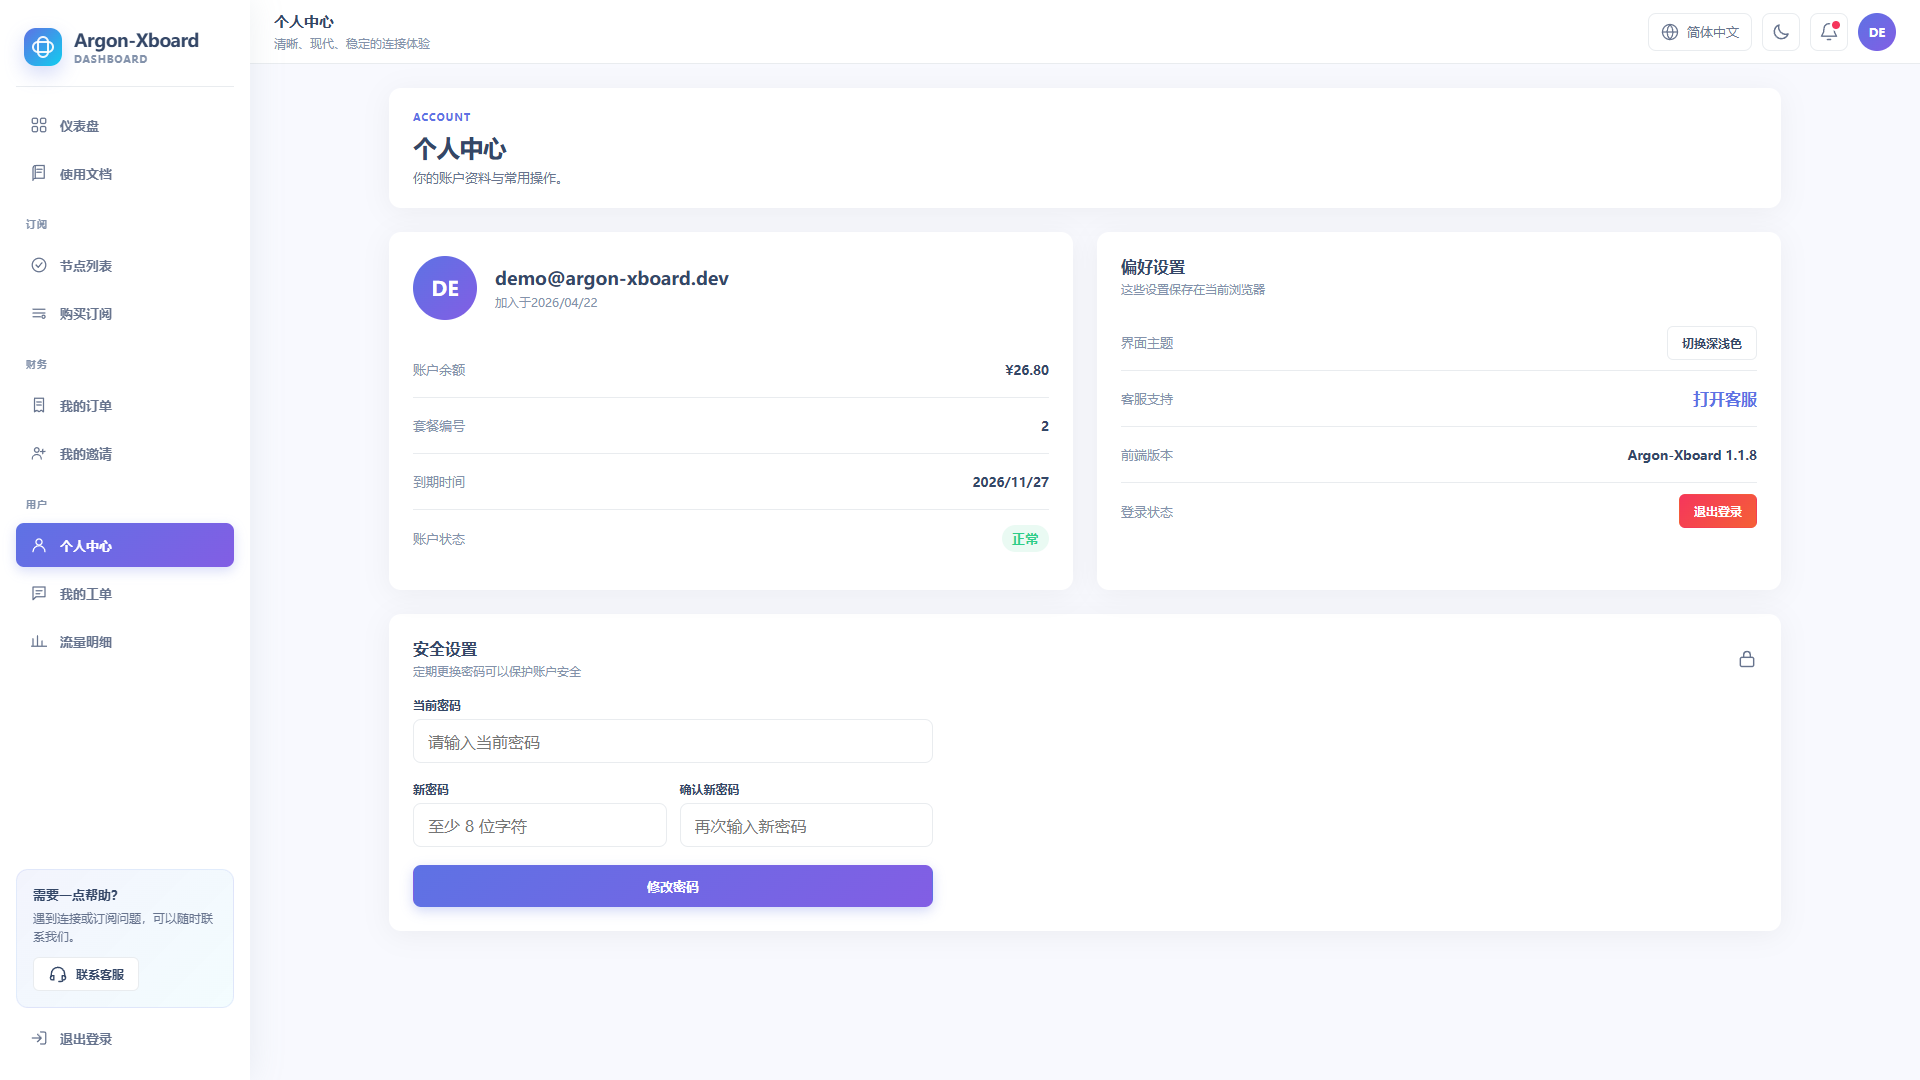
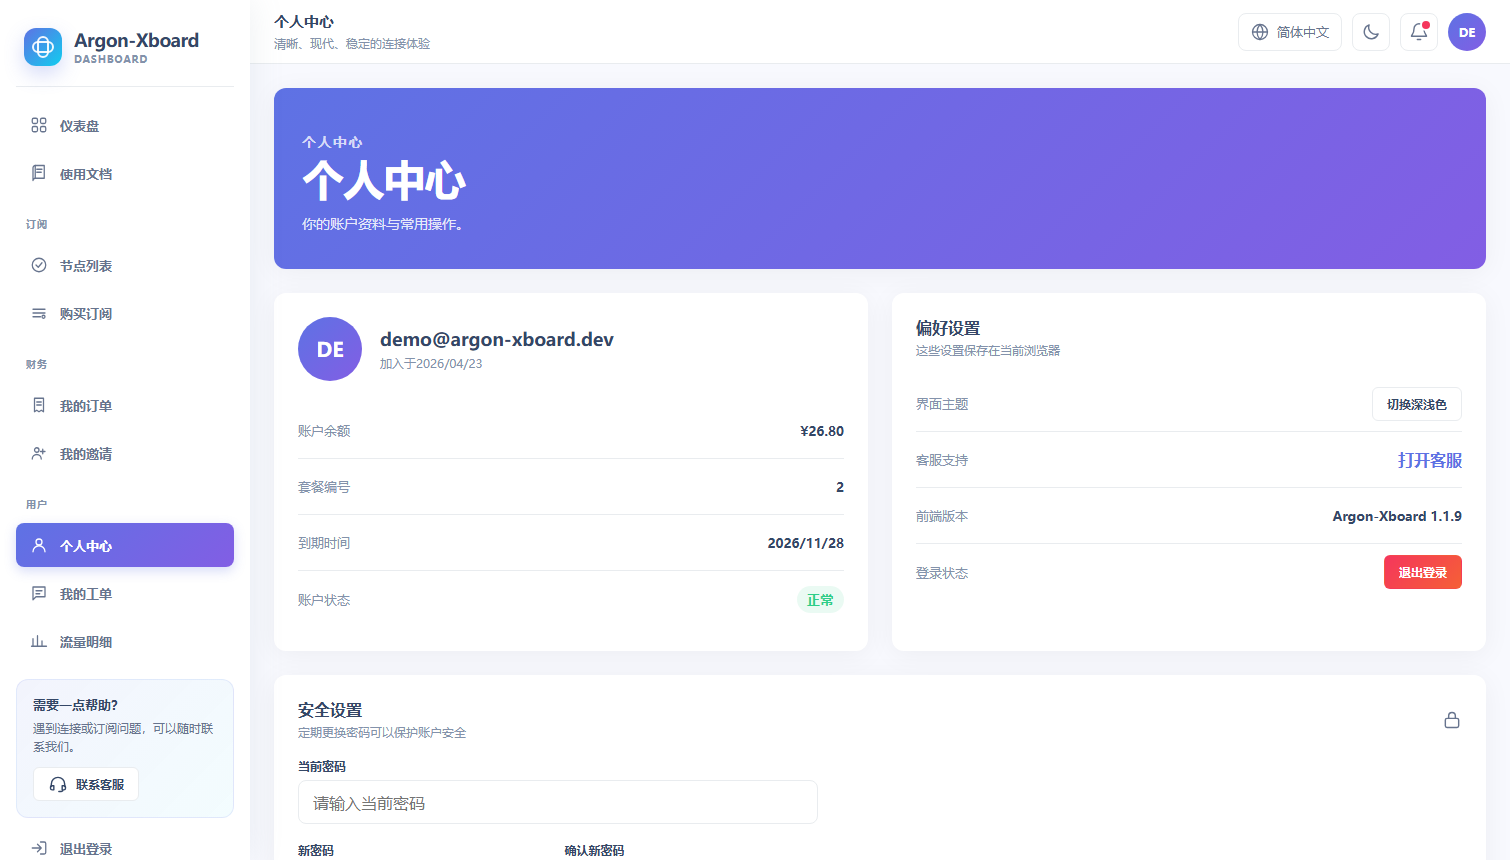
feat(ui): align top header blocks with content grid (v1.2.1)

diff --git a/assets/theme.css b/assets/theme.css
@@ -217,8 +217,8 @@ img { max-width: 100%; }
 .page-head h1 { margin: 0; font-size: 24px; color: var(--ink); font-weight: 700; letter-spacing: -.03em; }
 .page-head p:not(.eyebrow) { margin: 6px 0 0; color: var(--body); font-size: 13px; }
 
-.dashboard-header { margin: -24px -24px 24px -24px; padding: 48px 24px 64px; color: #fff; background: linear-gradient(135deg, var(--primary), #825ee4); border-radius: 0 0 var(--radius-xl) var(--radius-xl); }
-.dashboard-header-body { max-width: 1440px; margin: 0 auto; display: flex; align-items: flex-end; justify-content: space-between; gap: 20px; }
+.dashboard-header { margin: 0 0 24px; padding: 36px 28px; color: #fff; background: linear-gradient(135deg, var(--primary), #825ee4); border-radius: var(--radius); box-shadow: var(--shadow); }
+.dashboard-header-body { display: flex; align-items: flex-end; justify-content: space-between; gap: 20px; }
 .dashboard-header .eyebrow { color: rgba(255,255,255,.75); }
 .dashboard-header h1 { margin: 0; font-size: clamp(28px, 4vw, 42px); font-weight: 700; letter-spacing: -.03em; }
 .dashboard-header p { margin: 8px 0 0; color: rgba(255,255,255,.85); font-size: 14px; }
@@ -457,14 +457,7 @@ img { max-width: 100%; }
     padding-right: calc(18px + env(safe-area-inset-right));
   }
   .page-head { flex-direction: column; align-items: flex-start; }
-  .dashboard-header {
-    margin-top: -18px;
-    margin-right: calc(-18px - env(safe-area-inset-right));
-    margin-bottom: 18px;
-    margin-left: calc(-18px - env(safe-area-inset-left));
-    padding: 36px 18px 48px;
-    border-radius: 0 0 14px 14px;
-  }
+  .dashboard-header { margin: 0 0 18px; padding: 28px 18px; border-radius: var(--radius); }
   .dashboard-header-body { flex-direction: column; align-items: flex-start; gap: 14px; }
   .dashboard-header .docs-search { width: 100%; }
   .grid-3, .grid-2 { grid-template-columns: 1fr; }

diff --git a/dashboard.blade.php b/dashboard.blade.php
@@ -9,7 +9,7 @@
   @if (file_exists(public_path("/theme/{$theme}/favicon.ico")))
     <link rel="icon" href="/theme/{{ $theme }}/favicon.ico">
   @endif
-  <link rel="stylesheet" href="/theme/{{ $theme }}/assets/theme.css?v=1.2.0">
+  <link rel="stylesheet" href="/theme/{{ $theme }}/assets/theme.css?v=1.2.1">
 </head>
 <body>
   <div id="app" aria-live="polite">
@@ -37,7 +37,7 @@
       'footerText' => $theme_config['footer_text'] ?? 'Powered by Argon-Xboard · Xboard'
     ], JSON_UNESCAPED_UNICODE | JSON_UNESCAPED_SLASHES | JSON_HEX_TAG | JSON_HEX_AMP | JSON_HEX_APOS | JSON_HEX_QUOT) !!};
   </script>
-  <script defer src="/theme/{{ $theme }}/assets/theme.js?v=1.2.0"></script>
+  <script defer src="/theme/{{ $theme }}/assets/theme.js?v=1.2.1"></script>
   {!! $theme_config['custom_html'] ?? '' !!}
 </body>
 </html>

diff --git a/README.md b/README.md
@@ -47,7 +47,7 @@ Argon-Xboard/
 
 ## 安装到 Xboard
 
-1. 下载安装包 [`Argon-Xboard-1.2.0.zip`](https://github.com/panhuanghe/Argon-Xboard/releases/download/v1.2.0/Argon-Xboard-1.2.0.zip)。
+1. 下载安装包 [`Argon-Xboard-1.2.1.zip`](https://github.com/panhuanghe/Argon-Xboard/releases/download/v1.2.1/Argon-Xboard-1.2.1.zip)。
 2. 进入 Xboard 管理后台的「主题」页面，上传该 ZIP。
 3. 切换到 **Argon-Xboard**，按需填写品牌名称、主题色与客服地址。
 
